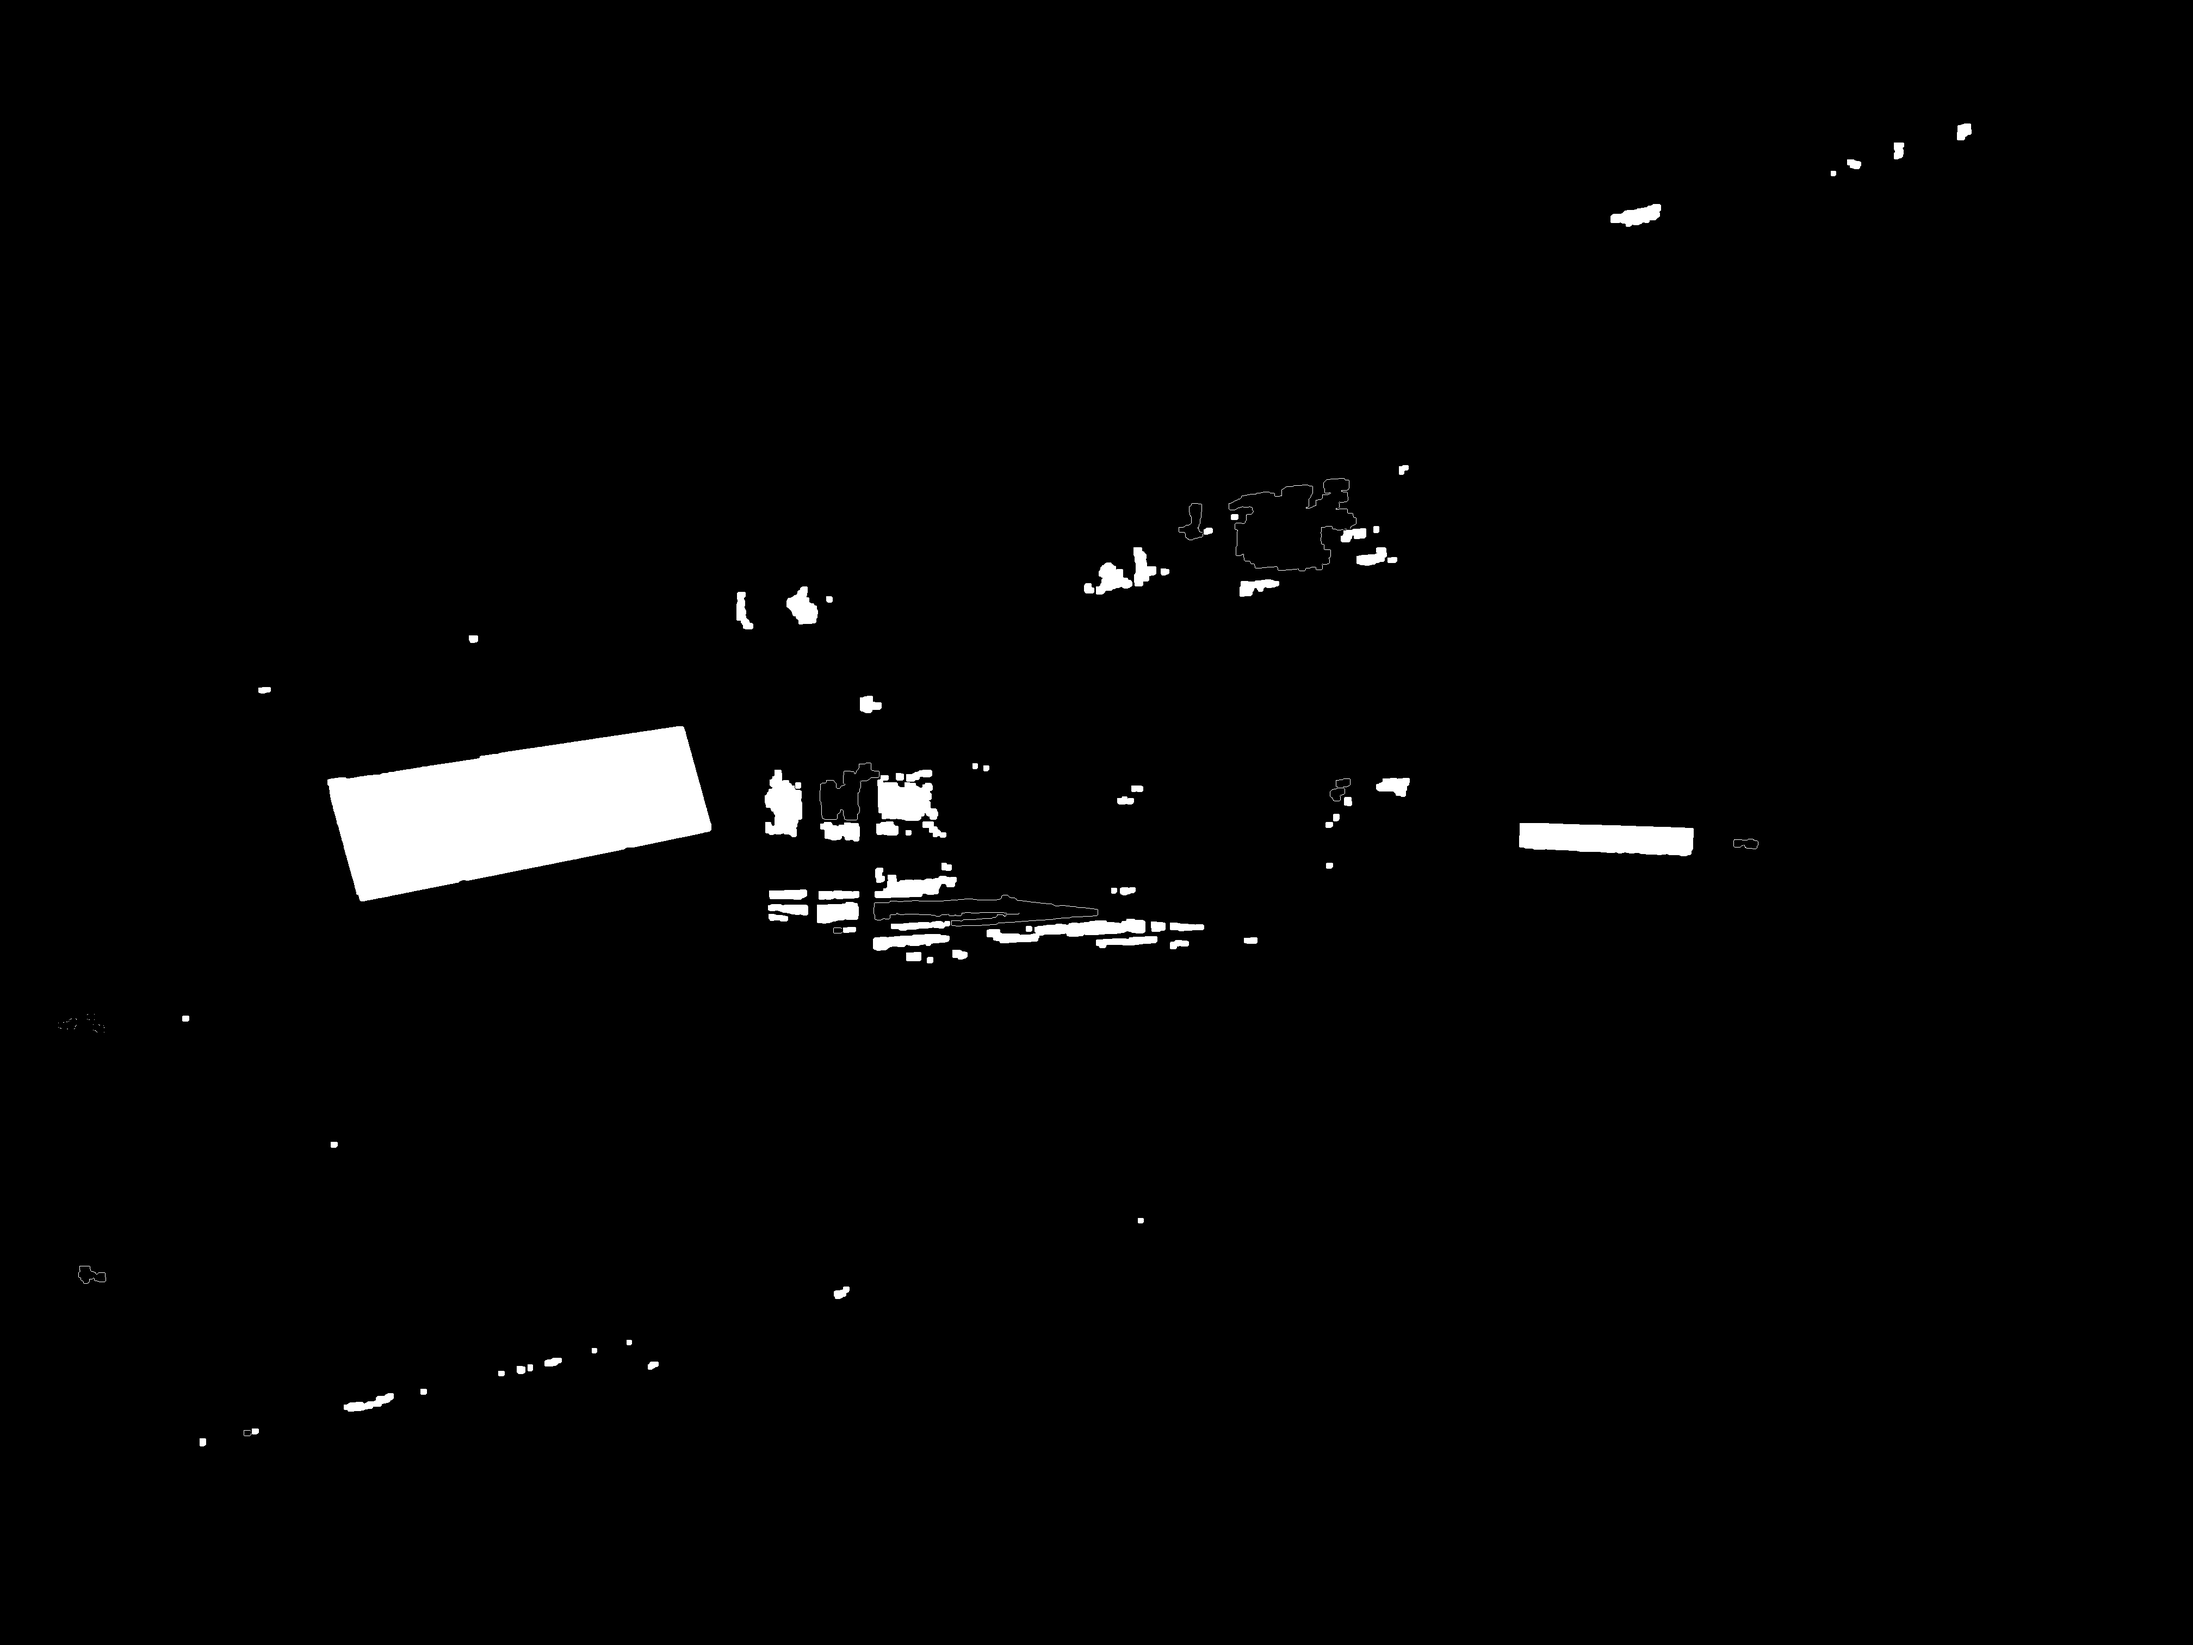
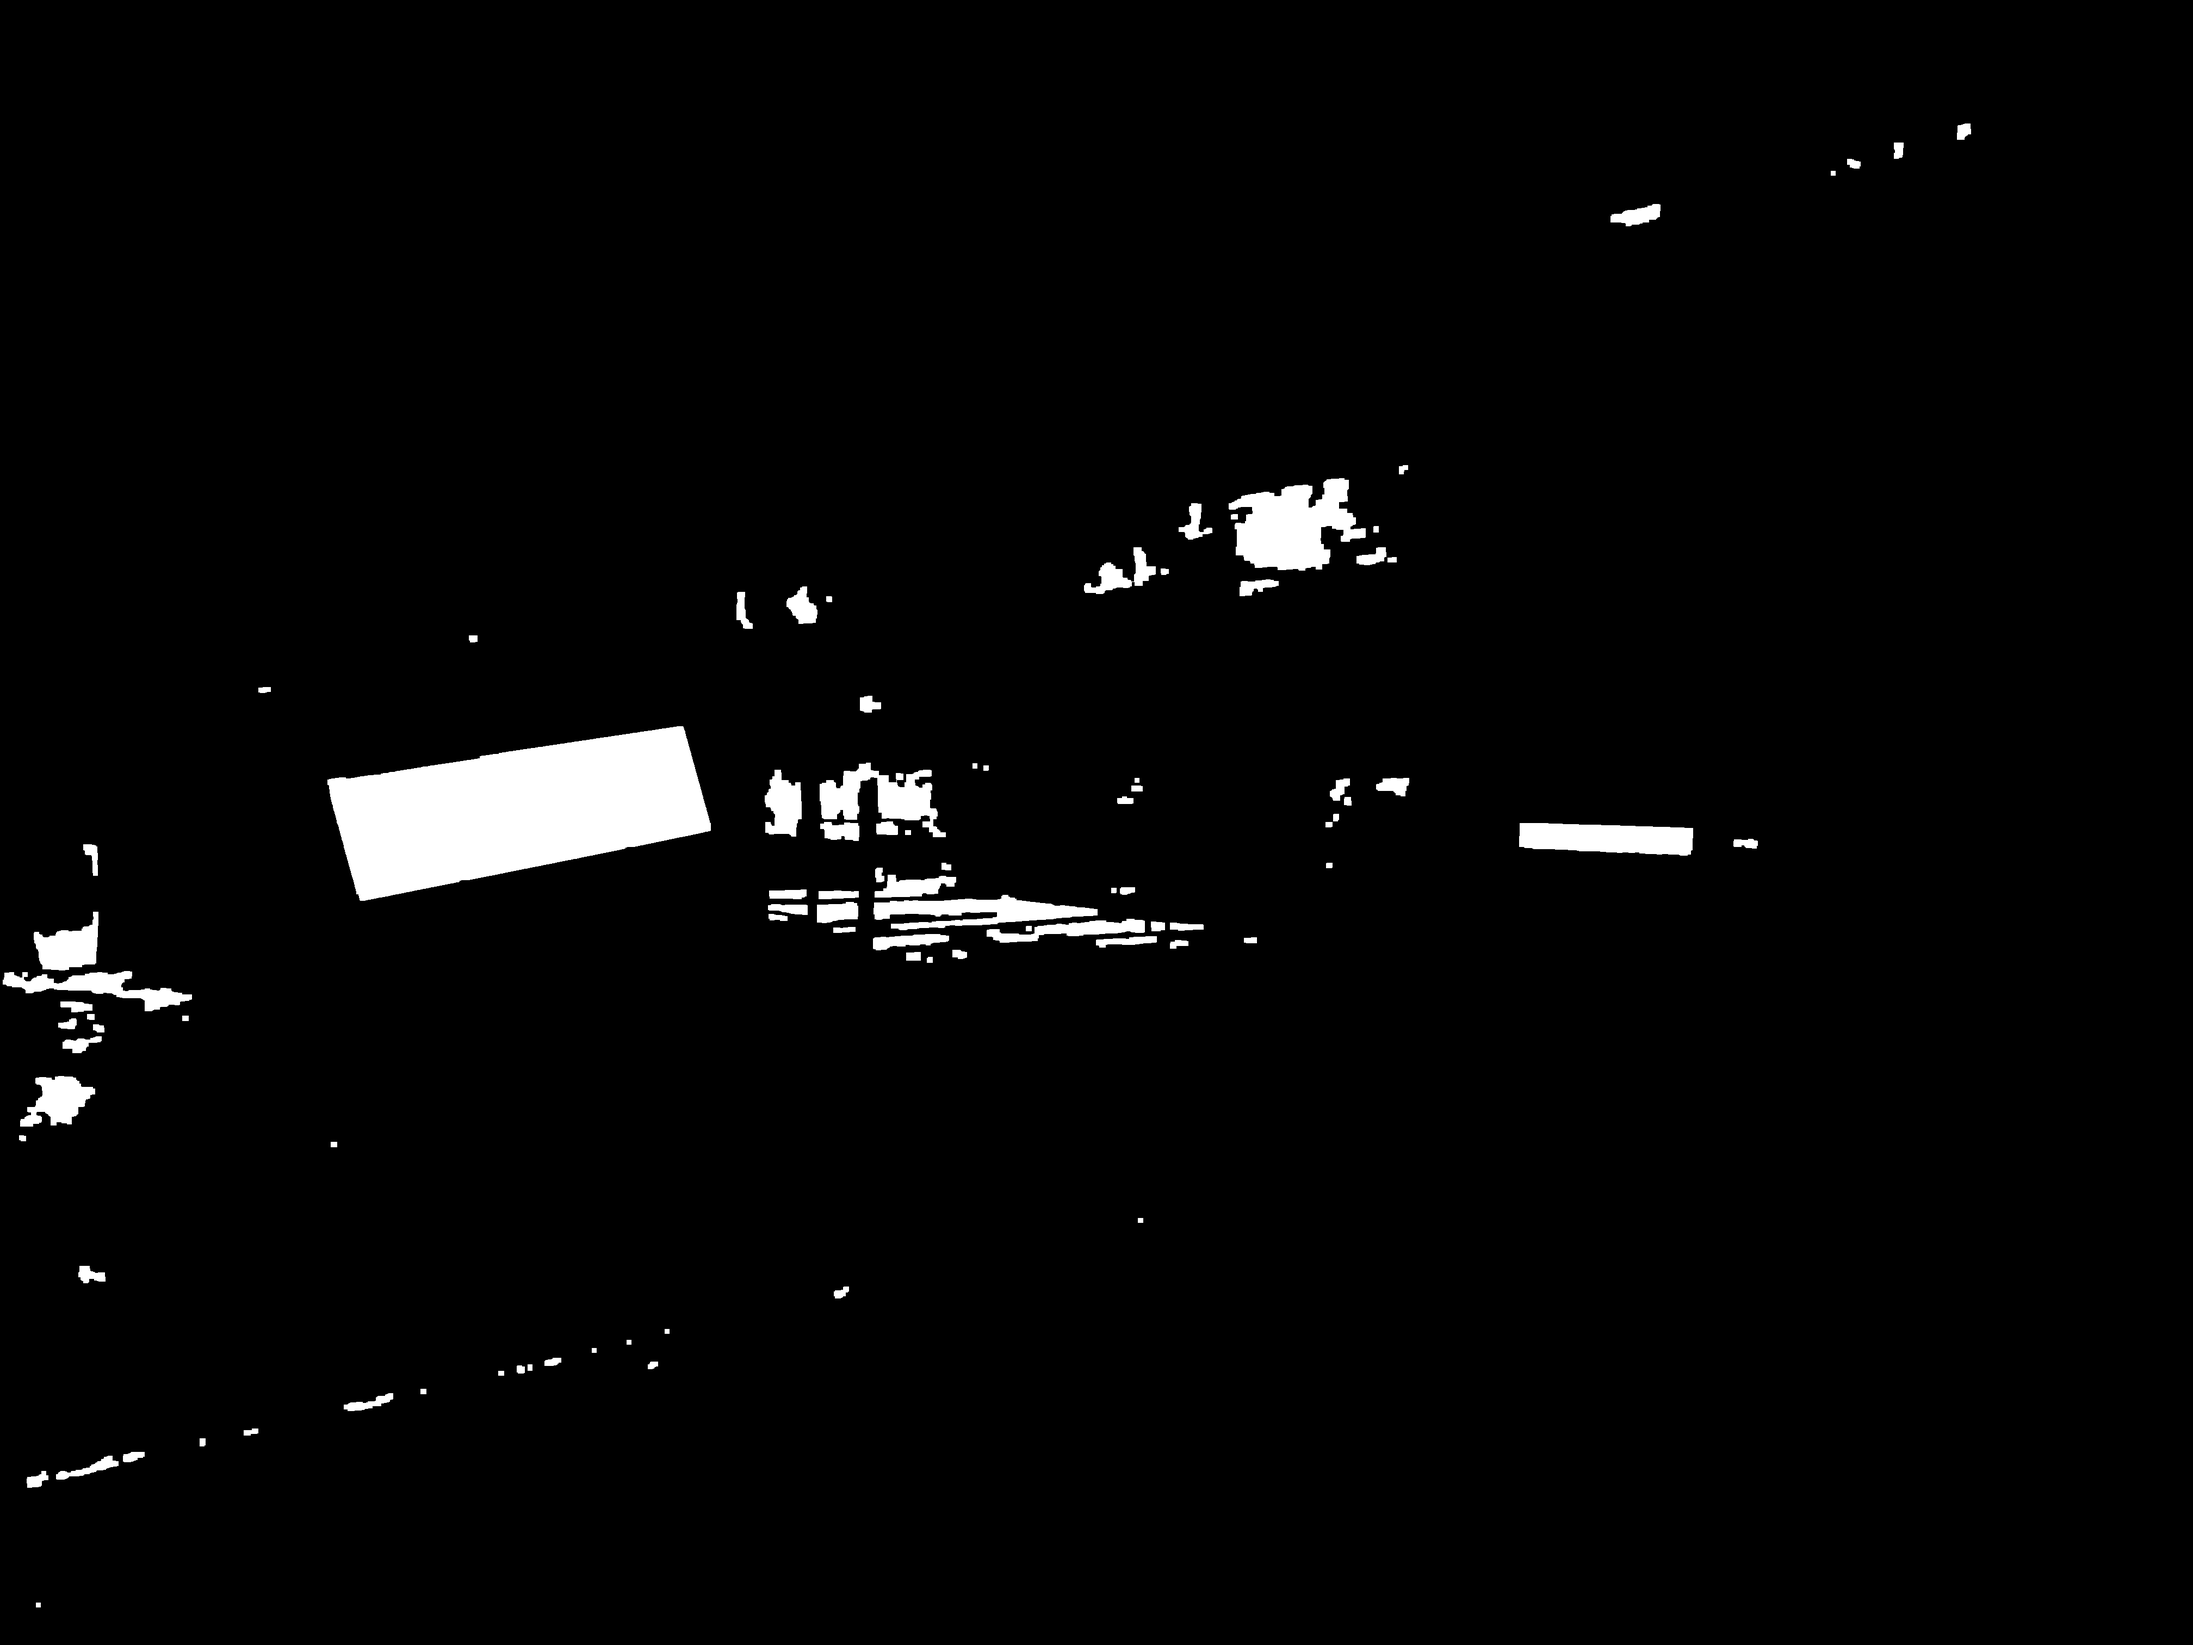
Make some more image tam tam

diff --git a/Lektion8/Ultimatesign7.m b/Lektion8/Ultimatesign7.m
@@ -19,18 +19,13 @@ Ired = redChannel;
 Igreen = greenChannel;
 Iblue = blueChannel;
 %% Thresholding - Inspect picture to decide thresshold
-threshold = 120;
-thresholdgreen = 90;
-thresholdblue  = 90;
-%% Using Threshold to highlight redPixels.
-redPixels = redChannel > threshold & greenChannel < threshold & blueChannel < threshold;
-redPixels = Ired > 105 & Ired < 235  & Igreen > 26 & Igreen < 117 & Iblue > 25 & Iblue < 129 & (abs(Iblue - Igreen) < 20);
+BI = Ired > 105 & Ired < 235  & Igreen > 26 & Igreen < 117 & Iblue > 25 & Iblue < 129 & (abs(Iblue - Igreen) < 20);
 %% Filling out holes in image
-redFilled = imfill(redPixels, 'holes');
+BF = imfill(BI, 'holes');
 
 %% Connecting components
-[ImageConnected1, CON1] = bwlabel(redFilled);
-[ImageConnected2, CON2] = bwlabel(redFilled);
+[ImageConnected1, CON1] = bwlabel(BF);
+[ImageConnected2, CON2] = bwlabel(BF);
 
 %%
 %stats = [regionprops(ImageConnected1); regionprops(not(ImageConnected1))]
@@ -40,86 +35,24 @@ imshow(ImageConnected1);
 
 %% Creating Kernel 
 % Designing kernels/structural elements
-se1 = strel('square',3);
-se2 = strel('disk',1);      %Husk at en 3x3 disk har indekset 1 i koden.
+se1 = strel('square',9);
+se2 = strel('square',5);      %Husk at en 3x3 disk har indekset 1 i koden.
 
-ClosedImage = mclose(ImageConnected1,se1);
-OpenedImage = mopen(ImageConnected1,se2);
-
-%%%%%% SHOWING IMAGE %%%%%%
-%figure
-%imshow(ClosedImage)
-%title('ClosedImage');
-
-%figure
-%imshow(OpenedImage)
-%title('OpenedImage');
-
-%% Removing noice further;
-NewImage1 = imopen(OpenedImage, strel('square',9));
-NewImage2 = imopen(ClosedImage, strel('square',9));
-
-%%%%%% SHOWING IMAGE %%%%%%
-%figure
-%imshow(NewImage1)
-%title('opened - opened')
-
-%figure
-%imshow(NewImage2)
-%title('closed - opened')
-
-%% Finding edges
-[a, threshold] = edge(NewImage1, 'sobel');
-
-fudgeFactor = .5;
-BWs = edge(NewImage1,'sobel', threshold * fudgeFactor);
-%%%%%% SHOWING IMAGE %%%%%%
-%figure
-%subplot(1,2,1)
-%imshow(a)
-%title('Edgde-detection 1.0')
-%subplot(1,2,2)
-%imshow(BWs),
-%title('binary gradient mask');
-
-%% Filling with jizz
-BWdfill = imfill(BWs, 'holes');
-%figure, imshow(BWdfill);
-%title('binary image with filled holes');
+NewImage1 = mopen(ImageConnected1,se1);
+NewImage1 = mclose(NewImage1,se2);
 
 %% Clearing borders
-BWnobord = imclearborder(BWdfill, 26);
-%figure, imshow(BWnobord), title('cleared border image');
+BWnobord = imclearborder(NewImage1, 8);
+figure, imshow(BWnobord), title('cleared border image');
 
 imwrite(BWnobord, 'BWnobord.png')
 
-%% Region properties
-BW_out = BWnobord;
-properties = regionprops(BW_out, 'Area', 'Perimeter','Extrema');
+%% remove small stuff
+BW_out = bwareaopen(BWnobord, 4000);
 
-sortedValues = sort([properties.Area]);
-Length_sorted = length(sortedValues);
-
-BlobUP_Thres = sortedValues(Length_sorted);
-BlobLP_Thres = sortedValues(Length_sorted-1)+1;
-
-%%
 [B,L,N] = bwboundaries(BW_out);
-%Display object boundaries in red and hole boundaries in green.
 
-%imshow(BW_out); hold on;
-%for k=1:length(B),
-%   boundary = B{k};
-%   if(k > N)
-%     plot(boundary(:,2), boundary(:,1), 'g','LineWidth',2);
-%   else
-%     plot(boundary(:,2), boundary(:,1), 'r','LineWidth',2);
-%   end
-%end
-
-imshow(bwareaopen(BW_out,sortedValues(length(sortedValues)-1)))
-ISigns = bwareaopen(BW_out,sortedValues(length(sortedValues)-3));
-imshow(ISigns)
+ISigns = BW_out;
 
 figure
 subplot(1,2,1)
@@ -129,19 +62,8 @@ subplot(1,2,2)
 imshow(ISigns)
 title('Sign detection');
 
-for i = 1:4 
-    k = bwareaopen(BW_out,sortedValues(length(sortedValues)-(i-1)));
-    figure
-    imshow(k)
-    title(strcat('plot',num2str(i)))
-end
-%%
-% Region props
-stats = regionprops(k, 'Area', 'Perimeter','Boundingbox');
-% Label Image
 [labeledImage, numBlobs] = bwlabel(ISigns);
 
-%% Extract the 4th blob into it's own binary image.
 BLOOBS = {}
 for i = 1: numBlobs
     k = ismember(labeledImage, i) > 0;
@@ -150,76 +72,57 @@ for i = 1: numBlobs
     imshow(k)
     title(strcat('plot',num2str(i)))
 end 
-%%
-figure
-subplot(2,2,1)
-imshow(BLOOBS{1,1})
-title('Top-left sign')
-subplot(2,2,2)
-imshow(BLOOBS{1,2})
-title('Bottom-left sign')
-subplot(2,2,3)
-imshow(BLOOBS{1,3})
-title('Top-right sign')
-subplot(2,2,4)
-imshow(BLOOBS{1,4})
-title('Bottom-right sign')
 
 %%
 [B,L] = bwboundaries(ISigns,'noholes');
-%imshow(label2rgb(L, @jet, [.5 .5 .5]))
-%hold on
-%for k = 1:length(B)
-%   boundary = B{k};
-%   plot(boundary(:,2), boundary(:,1), 'w', 'LineWidth', 2)
-%end
+
 
 %% Finding corners in image.
 COORNERS = {}
 IDEALCOORNERS = {}
 for i = 1: numBlobs
 % Finding corners in image
-        [rows columns numberOfColorBands] = size(ISigns);
-        boundaries = bwboundaries(BLOOBS{1,i});
-        xCoords = boundaries{1}(:, 2);
-        yCoords = boundaries{1}(:, 1);
+    [rows columns numberOfColorBands] = size(ISigns);
+    boundaries = bwboundaries(BLOOBS{1,i});
+    xCoords = boundaries{1}(:, 2);
+    yCoords = boundaries{1}(:, 1);
 
 % Find out which index is closest to the upper left corner
-        distances = sqrt((xCoords-1).^2+(yCoords-1).^2);
-        [minDistanceUL, minIndexUL] = min(distances);
+    distances = sqrt((xCoords-1).^2+(yCoords-1).^2);
+    [minDistanceUL, minIndexUL] = min(distances);
 
 % Find out which index is closest to the upper right corner
-        distances = sqrt((xCoords-columns).^2 + (yCoords - 1).^2);
-        [minDistanceUR, minIndexUR] = min(distances)
+    distances = sqrt((xCoords-columns).^2 + (yCoords - 1).^2);
+    [minDistanceUR, minIndexUR] = min(distances)
 % Find out which index is closest to the lower left corner
-        distances = sqrt((xCoords - 1).^2 + (yCoords - rows).^2);
-        [minDistanceLL, minIndexLL] = min(distances)
+    distances = sqrt((xCoords - 1).^2 + (yCoords - rows).^2);
+    [minDistanceLL, minIndexLL] = min(distances)
 % Find out which index is closest to the lower right corner
-        distances = sqrt((xCoords - columns).^2 + (yCoords - rows).^2);
-        [minDistanceLR, minIndexLR] = min(distances)
+    distances = sqrt((xCoords - columns).^2 + (yCoords - rows).^2);
+    [minDistanceLR, minIndexLR] = min(distances)
 
-% Plot circles over the corners, just for visualization purposes - for fun.
-        xCorners = [xCoords(minIndexUL), xCoords(minIndexUR), xCoords(minIndexLR), xCoords(minIndexLL)]
-        yCorners = [yCoords(minIndexUL), yCoords(minIndexUR), yCoords(minIndexLR), yCoords(minIndexLL)]
-        figure
-        imshow(ISigns)
-        hold on;
-        plot(xCorners, yCorners, 'ro');
-        title(strcat('Bad image with corners located - ',num2str(i)));
-        
-        A = [xCorners(:), yCorners(:)];
-        COORNERS{i}=A;  
+% Plot circles over the corners, just for visualization purposes - for fun - woho.
+    xCorners = [xCoords(minIndexUL), xCoords(minIndexUR), xCoords(minIndexLR), xCoords(minIndexLL)]
+    yCorners = [yCoords(minIndexUL), yCoords(minIndexUR), yCoords(minIndexLR), yCoords(minIndexLL)]
+    figure
+    imshow(ISigns)
+    hold on;
+    plot(xCorners, yCorners, 'ro');
+    title(strcat('Bad image with corners located - ',num2str(i)));
+
+    A = [xCorners(:), yCorners(:)];
+    COORNERS{i}=A;  
         
 % Determine ideal corner locations - aligned with raster lines
-        x1 = mean([xCorners(1), xCorners(4)])
-        x2 = mean([xCorners(2), xCorners(3)])
-        y1 = mean([yCorners(1), yCorners(2)])
-        y2 = mean([yCorners(3), yCorners(4)])
-        
-        xIdealCorners = [x1 x2 x2 x1];
-        yIdealCorners = [y1 y1 y2 y2];
-        B = [xIdealCorners(:), yIdealCorners(:)];
-        IDEALCOORNERS{i} = B;
+    x1 = mean([xCorners(1), xCorners(4)])
+    x2 = mean([xCorners(2), xCorners(3)])
+    y1 = mean([yCorners(1), yCorners(2)])
+    y2 = mean([yCorners(3), yCorners(4)])
+
+    xIdealCorners = [x1 x2 x2 x1];
+    yIdealCorners = [y1 y1 y2 y2];
+    B = [xIdealCorners(:), yIdealCorners(:)];
+    IDEALCOORNERS{i} = B;
 % Show this
     figure
     subplot(2, 2, 2);
@@ -230,62 +133,47 @@ for i = 1: numBlobs
 end
 
 %% Determine ideal corner locations - aligned with raster lines
-x1 = mean([xCorners(1), xCorners(4)])
-x2 = mean([xCorners(2), xCorners(3)])
-y1 = mean([yCorners(1), yCorners(2)])
-y2 = mean([yCorners(3), yCorners(4)])
-% Show this
-figure
-subplot(2, 2, 2);
-imshow(ISigns);
-hold on;
-plot([x1 x2 x2 x1 x1], [y1 y1 y2 y2 y1], 'r-', 'LineWidth', 3);
-title('Bad image with perfect rectangular overlaid');
-
-%%
-% Warp the image to straighten it.
-%badXY = [xCorners; yCorners]'
-%desiredXY = [x1 x2 x2 x1; y1 y1 y2 y2]'
-% Transform to a quadrilateral with vertices badXY
-% into a quadrilateral with vertices desiredXY.
-%tform = maketform('projective', badXY, desiredXY);
-% Fix/warp the image.
-%[binaryImage3, xdata, ydata] = imtransform(ISigns, ...
-%	tform, 'bicubic', 'size', size(ISigns));
-% Display the fixed image.
-%subplot(2, 2, 3);
-%imshow(binaryImage3);
-%title('Fixed image');
-
-%% Plotting ROI in original image.
-BW = roipoly(ISigns, xCorners, yCorners);
-
-
-desiredColor = [146, 40, 146];
-
-redChannel(BW) = desiredColor(1);
-greenChannel(BW) = desiredColor(2);
-blueChannel(BW) = desiredColor(3);
-
-%Recombine separate color channels into a single, true color RGB image.
-rgbImage = cat(3, redChannel, greenChannel, blueChannel);
-% Display the image.
-subplot(1, 2, 1);
-imshow(rgbImage);
-title('Image with color inside the mask region');
-
 
 %% Plotting ROI In own image
 FINALBLOOBS = {}
+count = 1;
 for i = 1:numBlobs
     
     xValues = IDEALCOORNERS{i}(:,1);
     yValues = IDEALCOORNERS{i}(:,2);
-    
-    C = roipoly(I,xValues, yValues);
-    
-    FINALBLOOBS{i} = C;
-    %COORNERS{i}=A;
-    %IDEALCOORNERS{i} = B;
+    imperfectBloob = BLOOBS{1,i};
+    imperfectstats = regionprops(imperfectBloob,'BoundingBox', 'Area','Extent');
+    idealbloob = roipoly(I,xValues, yValues);
+    % let's do some awesome things on this 
+    % do some redundant work just to get it running
+    statsideal = regionprops(idealbloob,'BoundingBox', 'Area');
+
+    %% gets the relationship between the area and the bounding box
+    BBAreaRatio = ((abs((statsideal.BoundingBox(3) * statsideal.BoundingBox(4))) / statsideal.Area));
+    % find out whether or not we should include the image based on my
+    % magic numbers 
+    % below wont work on big skilte
+    if( imperfectstats.Extent > 0.6 && ((statsideal.Area / imperfectstats.Area) > 0.9) && (statsideal.BoundingBox(3) > statsideal.BoundingBox(4)) && statsideal.BoundingBox(3)*2 >= statsideal.BoundingBox(4)) 
+        FINALBLOOBS{count} = imperfectBloob;
+        count = count + 1;
+        % show the shit
+        [r,c,d]=size(I);
+        Ir=I(:,:,1);
+        Ib=I(:,:,2);
+        Ig=I(:,:,3);
+        Iz=zeros(r,c,d);
+        zr=Iz(:,:,1);
+        zb=Iz(:,:,2);
+        zg=Iz(:,:,3);
+        zr(imperfectBloob)=Ir(imperfectBloob);
+        zb(imperfectBloob)=Ib(imperfectBloob);
+        zg(imperfectBloob)=Ig(imperfectBloob);
+        Iz(:,:,1)=zr;
+        Iz(:,:,2)=zb;
+        Iz(:,:,3)=zg;
+        figure;
+        imshow(uint8(Iz))
+        title("I believe this shit is a sign");
+    end
 end
 
